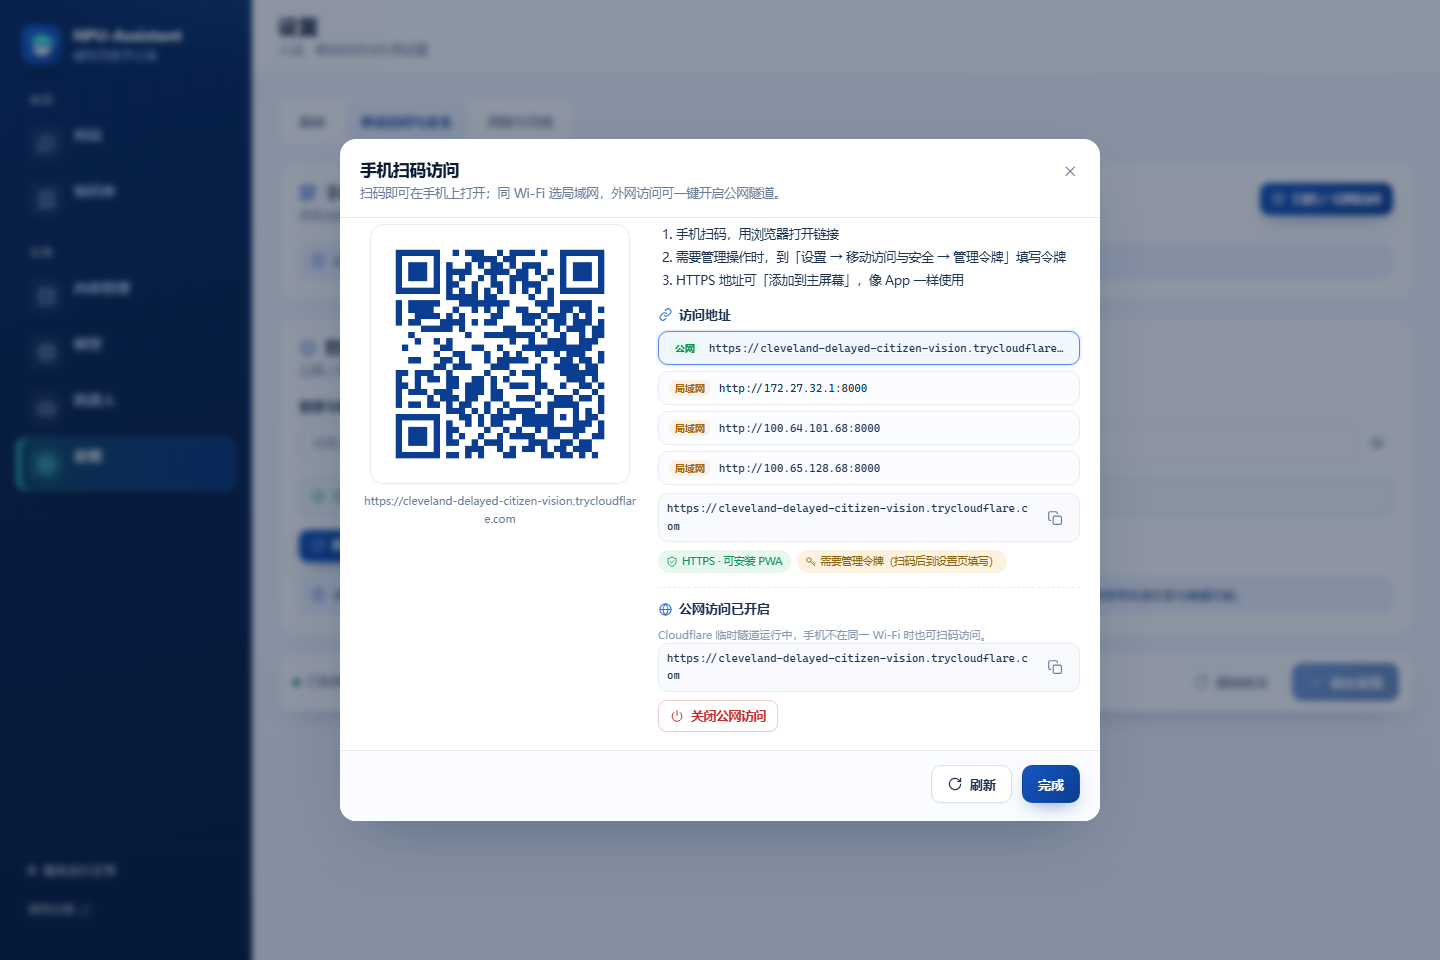
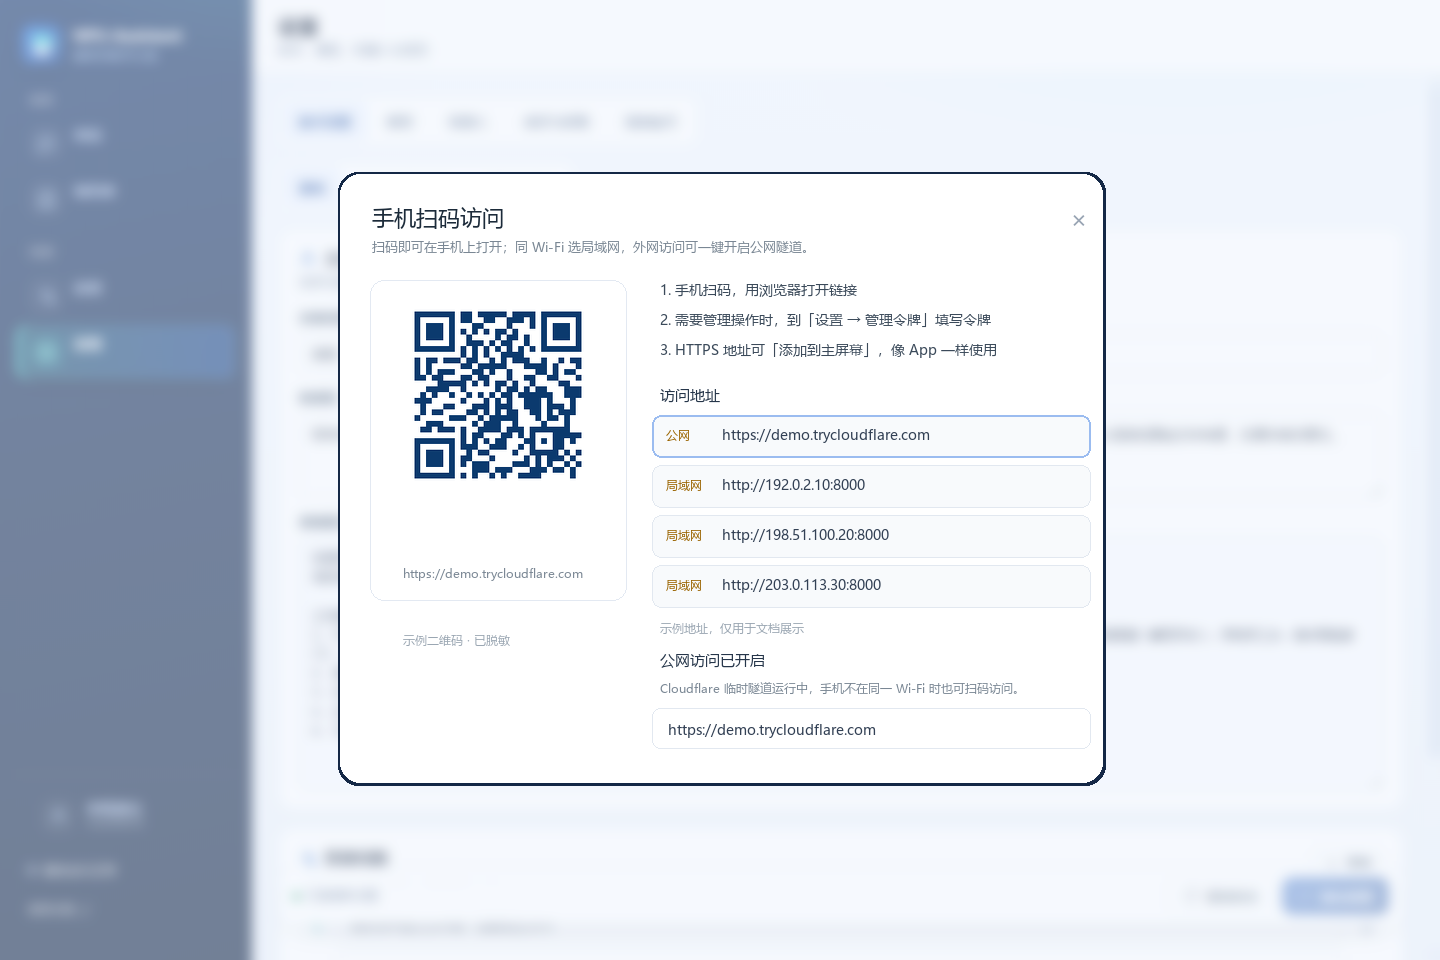
docs: redact internal addresses and bot credentials from screenshots

diff --git a/frontend/manual/index.html b/frontend/manual/index.html
@@ -406,11 +406,11 @@
         <p><b>扫码是默认方式。</b>手机和电脑用的是同一个服务，不需要单独安装“移动端”。部署老师启动时加 <code>-Lan</code>，电脑打开页面后进入「设置 → 助手设置 → 移动访问与安全」，点「扫码 / 公网访问」展示二维码，手机扫码即可。</p>
         <figure>
           <img src="../assets/manual/mobile-access.png" alt="手机扫码访问弹窗：二维码、访问地址和公网访问" loading="lazy" width="1440" height="960" />
-          <figcaption><b>图 10</b> 设置 → 助手设置 → 移动访问与安全 → 扫码 / 公网访问：二维码 + 访问地址 + 公网访问；手机扫码后在设置页填令牌（如需）。</figcaption>
+          <figcaption><b>图 10</b> 设置 → 助手设置 → 移动访问与安全 → 扫码 / 公网访问：二维码 + 访问地址 + 公网访问；图中地址与二维码为脱敏示例。</figcaption>
         </figure>
         <figure>
           <img src="../assets/manual/mobile-access-tunnel.png" alt="一键开启公网访问后，二维码自动切换为 Cloudflare 临时隧道地址" loading="lazy" width="1440" height="960" />
-          <figcaption><b>图 11</b> 点「一键开启公网访问」后：二维码自动切到 <code>https://*.trycloudflare.com</code>，并显示 HTTPS / PWA 标签。</figcaption>
+          <figcaption><b>图 11</b> 点「一键开启公网访问」后：二维码自动切到 <code>https://*.trycloudflare.com</code>，并显示 HTTPS / PWA 标签；图中地址为脱敏示例。</figcaption>
         </figure>
         <ol class="steps">
           <li><b>电脑启动服务（同一 Wi-Fi）</b><p><code>.\scripts\run.ps1 -Lan</code>；脚本会生成管理令牌并打印手机地址。</p></li>
